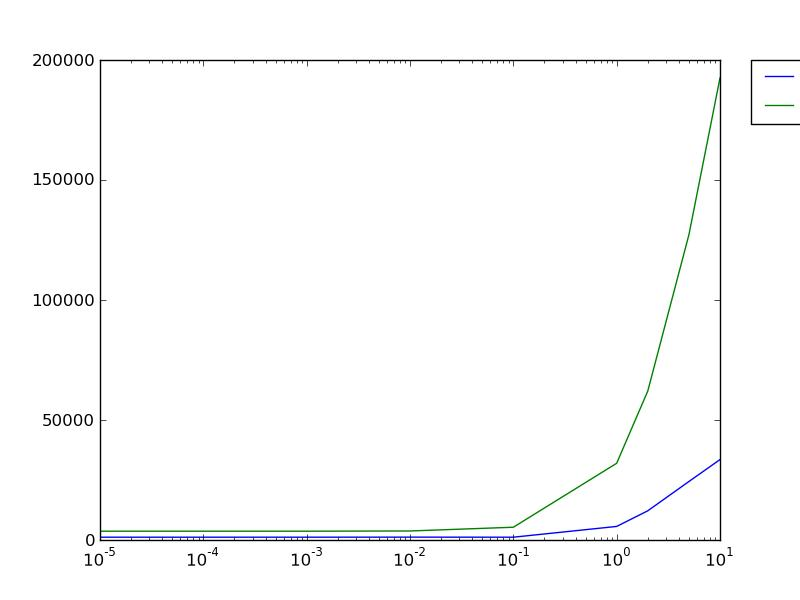
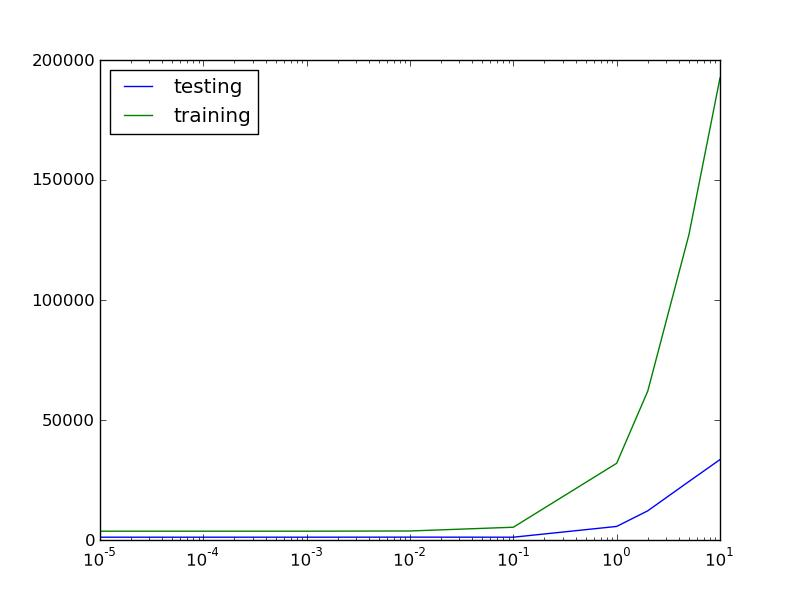
Fixed plots

Changed region(s): [[0.125, 0.09, 0.3438, 0.24], [0.9375, 0.09, 1.0, 0.21]]

diff --git a/Assignment 1/Code - Python/src/assignment1.py b/Assignment 1/Code - Python/src/assignment1.py
@@ -302,7 +302,7 @@ def problem3(y, x, a):
 	plt.xscale('log')
 	#plt.ylim((0,1000))
 	#plt.xlim((-1,1))
-	plt.legend(bbox_to_anchor=(1.05, 1), loc=2, borderaxespad=0.)
+	plt.legend(loc=0)
 	plt.savefig("loo_SSE.jpg")
 	plt.savefig(pp, format='pdf',bbox_inches = 'tight')
 	pp.close()
